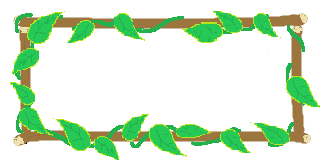
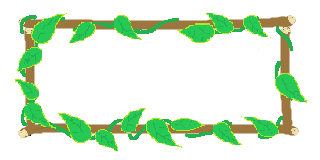
大きさ修正

Changed region(s): [[0.0312, 0.0625, 1.0, 1.0]]

diff --git a/DxLib_TGS2025/Src/Scene/StageSelect/StageSelectScene.cpp b/DxLib_TGS2025/Src/Scene/StageSelect/StageSelectScene.cpp
@@ -28,6 +28,7 @@ void StageSelectSceneInit(void)
 	stageselect.background_image = LoadGraph("Resource/images/StageSelect.png");
 	stageselect.trout_image[0] = LoadGraph("Resource/images/StageTrout.png");
 	stageselect.trout_image[1] = LoadGraph("Resource/images/StageTrout2.png");
+	stageselect.trout_image[2] = LoadGraph("Resource/images/BackTrout2.png");
 
 	stageselect.number_image[0] = LoadGraph("Resource/images/1.png");
 	stageselect.number_image[1] = LoadGraph("Resource/images/2.png");
@@ -99,9 +100,20 @@ void StageSelectSceneDraw(void)
 		}
 	}
 	//車のいる枠が葉っぱつきになる描画
-	DrawRotaGraph(stageselect.position.x, stageselect.position.y, 0.4, 0.0, stageselect.trout_image[1], TRUE);
+	if (stageselect.array_y != 2)
+	{
+		DrawRotaGraph(stageselect.position.x, stageselect.position.y, 0.4, 0.0, stageselect.trout_image[1], TRUE);
+	}
+	else if (stageselect.array_y == 2)
+	{
+		DrawRotaGraph(stageselect.position.x, stageselect.position.y, 1.0, 0.0, stageselect.trout_image[2], TRUE);
+	}
+
+	
 	//択んでいる位置に車を描画
 	DrawRotaGraph(stageselect.position.x, stageselect.position.y, 0.15, 0.0, stageselect.car_image, TRUE);
+
+	
 	
 	DrawExtendFormatString(470, 360, 2.0, 2.0, GetColor(255, 255, 255), "Aボタンでインゲーム画面へ");
 	/*DrawFormatString(100, 100, GetColor(255, 255, 255), "zでタイトル画面へ");*/
@@ -173,8 +185,8 @@ void StageSelectCarMove(void)
 		else if (stageselect.array_y == 0)
 		{
 			stageselect.array_y = 2;
-			stageselect.position.x = 930.0f;
-			stageselect.position.y = 600.0f;
+			stageselect.position.x = 920.0f;
+			stageselect.position.y = 605.0f;
 		}
 		else if (stageselect.array_y == 2)
 		{
@@ -199,8 +211,8 @@ void StageSelectCarMove(void)
 		else if (stageselect.array_y == 1)
 		{
 			stageselect.array_y = 2;
-			stageselect.position.x = 930.0f;
-			stageselect.position.y = 600.0f;
+			stageselect.position.x = 920.0f;
+			stageselect.position.y = 605.0f;
 			
 		}
 		else if (stageselect.array_y == 2)

diff --git a/DxLib_TGS2025/Src/Scene/StageSelect/StageSelectScene.h b/DxLib_TGS2025/Src/Scene/StageSelect/StageSelectScene.h
@@ -8,7 +8,7 @@ struct StageSelect
 {
 	int background_image;
 	int car_image;
-	int trout_image[2];
+	int trout_image[3];
 	int number_image[5];
 	int trout_array[3][3];
 	Vector2D position;
